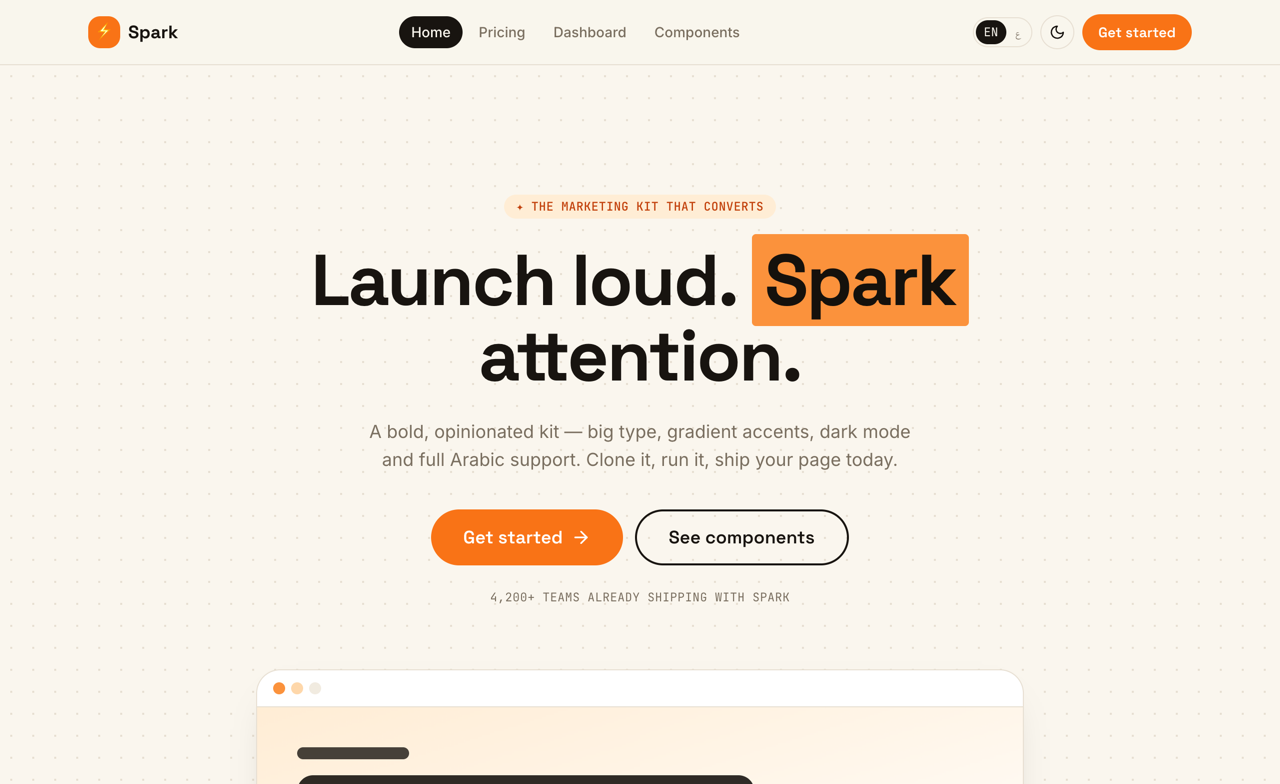
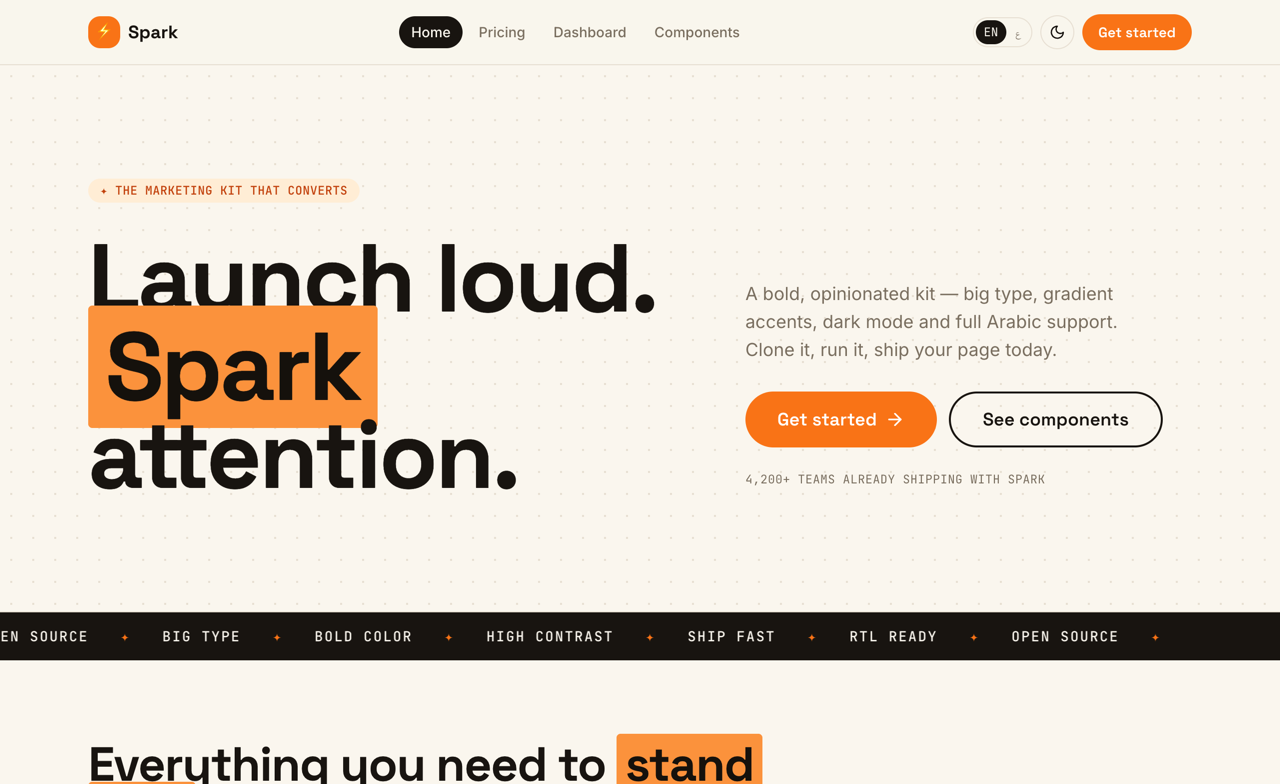
feat(spark): editorial landing; recaptured

diff --git a/apps/web/public/demos/spark/components/index.html b/apps/web/public/demos/spark/components/index.html
@@ -10,8 +10,8 @@
       href="https://fonts.googleapis.com/css2?family=Space+Grotesk:wght@500;600;700&family=Inter:wght@400;500;600&family=JetBrains+Mono:wght@400;500&family=Cairo:wght@400;600;700;800&display=swap"
       rel="stylesheet"
     />
-    <script type="module" crossorigin src="/demos/spark/assets/index-3TlDoNMO.js"></script>
-    <link rel="stylesheet" crossorigin href="/demos/spark/assets/index-Bxac-suA.css">
+    <script type="module" crossorigin src="/demos/spark/assets/index-BwNC0npH.js"></script>
+    <link rel="stylesheet" crossorigin href="/demos/spark/assets/index-BahLwX7e.css">
   </head>
   <body>
     <div id="root"></div>

diff --git a/apps/web/public/demos/spark/dashboard/index.html b/apps/web/public/demos/spark/dashboard/index.html
@@ -10,8 +10,8 @@
       href="https://fonts.googleapis.com/css2?family=Space+Grotesk:wght@500;600;700&family=Inter:wght@400;500;600&family=JetBrains+Mono:wght@400;500&family=Cairo:wght@400;600;700;800&display=swap"
       rel="stylesheet"
     />
-    <script type="module" crossorigin src="/demos/spark/assets/index-3TlDoNMO.js"></script>
-    <link rel="stylesheet" crossorigin href="/demos/spark/assets/index-Bxac-suA.css">
+    <script type="module" crossorigin src="/demos/spark/assets/index-BwNC0npH.js"></script>
+    <link rel="stylesheet" crossorigin href="/demos/spark/assets/index-BahLwX7e.css">
   </head>
   <body>
     <div id="root"></div>

diff --git a/apps/web/public/demos/spark/index.html b/apps/web/public/demos/spark/index.html
@@ -10,8 +10,8 @@
       href="https://fonts.googleapis.com/css2?family=Space+Grotesk:wght@500;600;700&family=Inter:wght@400;500;600&family=JetBrains+Mono:wght@400;500&family=Cairo:wght@400;600;700;800&display=swap"
       rel="stylesheet"
     />
-    <script type="module" crossorigin src="/demos/spark/assets/index-3TlDoNMO.js"></script>
-    <link rel="stylesheet" crossorigin href="/demos/spark/assets/index-Bxac-suA.css">
+    <script type="module" crossorigin src="/demos/spark/assets/index-BwNC0npH.js"></script>
+    <link rel="stylesheet" crossorigin href="/demos/spark/assets/index-BahLwX7e.css">
   </head>
   <body>
     <div id="root"></div>

diff --git a/apps/web/public/demos/spark/pricing/index.html b/apps/web/public/demos/spark/pricing/index.html
@@ -10,8 +10,8 @@
       href="https://fonts.googleapis.com/css2?family=Space+Grotesk:wght@500;600;700&family=Inter:wght@400;500;600&family=JetBrains+Mono:wght@400;500&family=Cairo:wght@400;600;700;800&display=swap"
       rel="stylesheet"
     />
-    <script type="module" crossorigin src="/demos/spark/assets/index-3TlDoNMO.js"></script>
-    <link rel="stylesheet" crossorigin href="/demos/spark/assets/index-Bxac-suA.css">
+    <script type="module" crossorigin src="/demos/spark/assets/index-BwNC0npH.js"></script>
+    <link rel="stylesheet" crossorigin href="/demos/spark/assets/index-BahLwX7e.css">
   </head>
   <body>
     <div id="root"></div>

diff --git a/apps/web/public/demos/spark/assets/index-BahLwX7e.css b/apps/web/public/demos/spark/assets/index-BahLwX7e.css
@@ -1,0 +1,1 @@
+@layer properties{@supports (((-webkit-hyphens:none)) and (not (margin-trim:inline))) or ((-moz-orient:inline) and (not (color:rgb(from red r g b)))){*,:before,:after,::backdrop{--tw-translate-x:0;--tw-translate-y:0;--tw-translate-z:0;--tw-space-y-reverse:0;--tw-space-x-reverse:0;--tw-divide-y-reverse:0;--tw-border-style:solid;--tw-leading:initial;--tw-font-weight:initial;--tw-tracking:initial;--tw-shadow:0 0 #0000;--tw-shadow-color:initial;--tw-shadow-alpha:100%;--tw-inset-shadow:0 0 #0000;--tw-inset-shadow-color:initial;--tw-inset-shadow-alpha:100%;--tw-ring-color:initial;--tw-ring-shadow:0 0 #0000;--tw-inset-ring-color:initial;--tw-inset-ring-shadow:0 0 #0000;--tw-ring-inset:initial;--tw-ring-offset-width:0px;--tw-ring-offset-color:#fff;--tw-ring-offset-shadow:0 0 #0000;--tw-outline-style:solid;--tw-backdrop-blur:initial;--tw-backdrop-brightness:initial;--tw-backdrop-contrast:initial;--tw-backdrop-grayscale:initial;--tw-backdrop-hue-rotate:initial;--tw-backdrop-invert:initial;--tw-backdrop-opacity:initial;--tw-backdrop-saturate:initial;--tw-backdrop-sepia:initial;--tw-content:"";--tw-blur:initial;--tw-brightness:initial;--tw-contrast:initial;--tw-grayscale:initial;--tw-hue-rotate:initial;--tw-invert:initial;--tw-opacity:initial;--tw-saturate:initial;--tw-sepia:initial;--tw-drop-shadow:initial;--tw-drop-shadow-color:initial;--tw-drop-shadow-alpha:100%;--tw-drop-shadow-size:initial;--tw-scale-x:1;--tw-scale-y:1;--tw-scale-z:1}}}@layer theme{:root,:host{--font-sans:"Inter", "Cairo", system-ui, sans-serif;--font-mono:"JetBrains Mono", ui-monospace, SFMono-Regular, monospace;--color-amber-500:oklch(76.9% .188 70.08);--color-rose-500:oklch(64.5% .246 16.439);--spacing:.25rem;--container-sm:24rem;--container-md:28rem;--container-xl:36rem;--container-2xl:42rem;--container-3xl:48rem;--container-4xl:56rem;--container-6xl:72rem;--text-xs:.75rem;--text-xs--line-height:calc(1 / .75);--text-sm:.875rem;--text-sm--line-height:calc(1.25 / .875);--text-base:1rem;--text-base--line-height: 1.5 ;--text-lg:1.125rem;--text-lg--line-height:calc(1.75 / 1.125);--text-xl:1.25rem;--text-xl--line-height:calc(1.75 / 1.25);--text-2xl:1.5rem;--text-2xl--line-height:calc(2 / 1.5);--text-3xl:1.875rem;--text-3xl--line-height: 1.2 ;--text-4xl:2.25rem;--text-4xl--line-height:calc(2.5 / 2.25);--text-5xl:3rem;--text-5xl--line-height:1;--text-6xl:3.75rem;--text-6xl--line-height:1;--text-8xl:6rem;--text-8xl--line-height:1;--font-weight-normal:400;--font-weight-medium:500;--font-weight-semibold:600;--font-weight-bold:700;--tracking-tight:-.025em;--tracking-wide:.025em;--tracking-widest:.1em;--leading-tight:1.25;--leading-snug:1.375;--radius-sm:.25rem;--radius-md:.375rem;--radius-lg:1.5rem;--radius-xl:.75rem;--animate-spin:spin 1s linear infinite;--animate-pulse:pulse 2s cubic-bezier(.4, 0, .6, 1) infinite;--blur-sm:8px;--default-transition-duration:.15s;--default-transition-timing-function:cubic-bezier(.4, 0, .2, 1);--default-font-family:var(--font-sans);--default-mono-font-family:var(--font-mono);--radius:1rem;--font-display:"Space Grotesk", "Cairo", system-ui, sans-serif;--color-brand-100:#ffedd5;--color-brand-300:#fdba74;--color-brand-700:#c2410c;--color-background:#faf6ee;--color-foreground:#181410;--color-card:#fff;--color-muted:#f1ebe0;--color-muted-foreground:#7a6f60;--color-border:#e7dfd2;--color-primary:#f97316;--color-primary-foreground:#fff;--color-ink:#15110c;--color-ink-foreground:#faf6ee;--color-mark:#fb923c;--color-mark-foreground:#15110c;--color-success:#16a34a;--shadow-card:0 18px 40px -24px #18141059}}@layer base{*,:after,:before,::backdrop{box-sizing:border-box;border:0 solid;margin:0;padding:0}::file-selector-button{box-sizing:border-box;border:0 solid;margin:0;padding:0}html,:host{-webkit-text-size-adjust:100%;tab-size:4;line-height:1.5;font-family:var(--default-font-family,ui-sans-serif, system-ui, sans-serif, "Apple Color Emoji", "Segoe UI Emoji", "Segoe UI Symbol", "Noto Color Emoji");font-feature-settings:var(--default-font-feature-settings,normal);font-variation-settings:var(--default-font-variation-settings,normal);-webkit-tap-highlight-color:transparent}hr{height:0;color:inherit;border-top-width:1px}abbr:where([title]){-webkit-text-decoration:underline dotted;text-decoration:underline dotted}h1,h2,h3,h4,h5,h6{font-size:inherit;font-weight:inherit}a{color:inherit;-webkit-text-decoration:inherit;text-decoration:inherit}b,strong{font-weight:bolder}code,kbd,samp,pre{font-family:var(--default-mono-font-family,ui-monospace, SFMono-Regular, Menlo, Monaco, Consolas, "Liberation Mono", "Courier New", monospace);font-feature-settings:var(--default-mono-font-feature-settings,normal);font-variation-settings:var(--default-mono-font-variation-settings,normal);font-size:1em}small{font-size:80%}sub,sup{vertical-align:baseline;font-size:75%;line-height:0;position:relative}sub{bottom:-.25em}sup{top:-.5em}table{text-indent:0;border-color:inherit;border-collapse:collapse}:-moz-focusring{outline:auto}progress{vertical-align:baseline}summary{display:list-item}ol,ul,menu{list-style:none}img,svg,video,canvas,audio,iframe,embed,object{vertical-align:middle;display:block}img,video{max-width:100%;height:auto}button,input,select,optgroup,textarea{font:inherit;font-feature-settings:inherit;font-variation-settings:inherit;letter-spacing:inherit;color:inherit;opacity:1;background-color:#0000;border-radius:0}::file-selector-button{font:inherit;font-feature-settings:inherit;font-variation-settings:inherit;letter-spacing:inherit;color:inherit;opacity:1;background-color:#0000;border-radius:0}:where(select:is([multiple],[size])) optgroup{font-weight:bolder}:where(select:is([multiple],[size])) optgroup option{padding-inline-start:20px}::file-selector-button{margin-inline-end:4px}::placeholder{opacity:1}@supports (not ((-webkit-appearance:-apple-pay-button))) or (contain-intrinsic-size:1px){::placeholder{color:currentColor}@supports (color:color-mix(in lab,red,red)){::placeholder{color:color-mix(in oklab,currentcolor 50%,transparent)}}}textarea{resize:vertical}::-webkit-search-decoration{-webkit-appearance:none}::-webkit-date-and-time-value{min-height:1lh;text-align:inherit}::-webkit-datetime-edit{display:inline-flex}::-webkit-datetime-edit-fields-wrapper{padding:0}::-webkit-datetime-edit{padding-block:0}::-webkit-datetime-edit-year-field{padding-block:0}::-webkit-datetime-edit-month-field{padding-block:0}::-webkit-datetime-edit-day-field{padding-block:0}::-webkit-datetime-edit-hour-field{padding-block:0}::-webkit-datetime-edit-minute-field{padding-block:0}::-webkit-datetime-edit-second-field{padding-block:0}::-webkit-datetime-edit-millisecond-field{padding-block:0}::-webkit-datetime-edit-meridiem-field{padding-block:0}::-webkit-calendar-picker-indicator{line-height:1}:-moz-ui-invalid{box-shadow:none}button,input:where([type=button],[type=reset],[type=submit]){appearance:button}::file-selector-button{appearance:button}::-webkit-inner-spin-button{height:auto}::-webkit-outer-spin-button{height:auto}[hidden]:where(:not([hidden=until-found])){display:none!important}.dark{--color-background:#14100b;--color-foreground:#f7efe2;--color-card:#1d1812;--color-muted:#241d15;--color-muted-foreground:#b3a692;--color-border:#322a1f;--color-primary:#fb923c;--color-primary-foreground:#14100b;--color-ink:#0c0a07;--color-ink-foreground:#f7efe2;--color-mark:#f97316;--color-mark-foreground:#14100b}[dir=rtl]{--font-display:"Cairo", "Space Grotesk", sans-serif;--font-sans:"Cairo", "Inter", sans-serif}html{background-color:var(--color-background);color:var(--color-foreground);font-family:var(--font-sans);-webkit-font-smoothing:antialiased}}@layer components;@layer utilities{.pointer-events-none{pointer-events:none}.invisible{visibility:hidden}.sr-only{clip-path:inset(50%);white-space:nowrap;border-width:0;width:1px;height:1px;margin:-1px;padding:0;position:absolute;overflow:hidden}.absolute{position:absolute}.fixed{position:fixed}.relative{position:relative}.sticky{position:sticky}.inset-0{inset:0}.start-1\/2{inset-inline-start:50%}.end-0{inset-inline-end:calc(var(--spacing) * 0)}.top-0{top:0}.top-2\.5{top:calc(var(--spacing) * 2.5)}.right-2\.5{right:calc(var(--spacing) * 2.5)}.bottom-full{bottom:100%}.z-20{z-index:20}.z-40{z-index:40}.z-50{z-index:50}.col-start-1{grid-column-start:1}.row-start-1{grid-row-start:1}.mx-1{margin-inline:var(--spacing)}.mx-auto{margin-inline:auto}.mt-1{margin-top:var(--spacing)}.mt-1\.5{margin-top:calc(var(--spacing) * 1.5)}.mt-2{margin-top:calc(var(--spacing) * 2)}.mt-3{margin-top:calc(var(--spacing) * 3)}.mt-4{margin-top:calc(var(--spacing) * 4)}.mt-6{margin-top:calc(var(--spacing) * 6)}.mt-7{margin-top:calc(var(--spacing) * 7)}.mt-8{margin-top:calc(var(--spacing) * 8)}.mb-1{margin-bottom:var(--spacing)}.mb-2{margin-bottom:calc(var(--spacing) * 2)}.mb-4{margin-bottom:calc(var(--spacing) * 4)}.mb-8{margin-bottom:calc(var(--spacing) * 8)}.mb-10{margin-bottom:calc(var(--spacing) * 10)}.mb-12{margin-bottom:calc(var(--spacing) * 12)}.block{display:block}.flex{display:flex}.grid{display:grid}.hidden{display:none}.inline-block{display:inline-block}.inline-flex{display:inline-flex}.inline-grid{display:inline-grid}.h-1\.5{height:calc(var(--spacing) * 1.5)}.h-2{height:calc(var(--spacing) * 2)}.h-3{height:calc(var(--spacing) * 3)}.h-4{height:calc(var(--spacing) * 4)}.h-5{height:calc(var(--spacing) * 5)}.h-6{height:calc(var(--spacing) * 6)}.h-7{height:calc(var(--spacing) * 7)}.h-8{height:calc(var(--spacing) * 8)}.h-9{height:calc(var(--spacing) * 9)}.h-10{height:calc(var(--spacing) * 10)}.h-11{height:calc(var(--spacing) * 11)}.h-12{height:calc(var(--spacing) * 12)}.h-14{height:calc(var(--spacing) * 14)}.h-16{height:calc(var(--spacing) * 16)}.h-40{height:calc(var(--spacing) * 40)}.h-full{height:100%}.h-px{height:1px}.min-h-24{min-height:calc(var(--spacing) * 24)}.min-h-screen{min-height:100vh}.w-1\.5{width:calc(var(--spacing) * 1.5)}.w-1\/2{width:50%}.w-2{width:calc(var(--spacing) * 2)}.w-3{width:calc(var(--spacing) * 3)}.w-3\/4{width:75%}.w-4{width:calc(var(--spacing) * 4)}.w-5{width:calc(var(--spacing) * 5)}.w-6{width:calc(var(--spacing) * 6)}.w-7{width:calc(var(--spacing) * 7)}.w-8{width:calc(var(--spacing) * 8)}.w-9{width:calc(var(--spacing) * 9)}.w-10{width:calc(var(--spacing) * 10)}.w-11{width:calc(var(--spacing) * 11)}.w-12{width:calc(var(--spacing) * 12)}.w-44{width:calc(var(--spacing) * 44)}.w-52{width:calc(var(--spacing) * 52)}.w-56{width:calc(var(--spacing) * 56)}.w-full{width:100%}.w-max{width:max-content}.w-px{width:1px}.max-w-2xl{max-width:var(--container-2xl)}.max-w-3xl{max-width:var(--container-3xl)}.max-w-4xl{max-width:var(--container-4xl)}.max-w-6xl{max-width:var(--container-6xl)}.max-w-md{max-width:var(--container-md)}.max-w-sm{max-width:var(--container-sm)}.max-w-xl{max-width:var(--container-xl)}.min-w-0{min-width:0}.min-w-9{min-width:calc(var(--spacing) * 9)}.flex-1{flex:1}.shrink-0{flex-shrink:0}.-translate-x-1\/2{--tw-translate-x: -50% ;translate:var(--tw-translate-x) var(--tw-translate-y)}.rotate-45{rotate:45deg}.animate-pulse{animation:var(--animate-pulse)}.animate-spin{animation:var(--animate-spin)}.cursor-pointer{cursor:pointer}.appearance-none{appearance:none}.grid-cols-2{grid-template-columns:repeat(2,minmax(0,1fr))}.flex-col{flex-direction:column}.flex-row{flex-direction:row}.flex-wrap{flex-wrap:wrap}.place-items-center{place-items:center}.items-baseline{align-items:baseline}.items-center{align-items:center}.items-start{align-items:flex-start}.justify-between{justify-content:space-between}.justify-center{justify-content:center}.gap-1{gap:var(--spacing)}.gap-1\.5{gap:calc(var(--spacing) * 1.5)}.gap-2{gap:calc(var(--spacing) * 2)}.gap-2\.5{gap:calc(var(--spacing) * 2.5)}.gap-3{gap:calc(var(--spacing) * 3)}.gap-4{gap:calc(var(--spacing) * 4)}.gap-5{gap:calc(var(--spacing) * 5)}.gap-6{gap:calc(var(--spacing) * 6)}.gap-7{gap:calc(var(--spacing) * 7)}.gap-8{gap:calc(var(--spacing) * 8)}:where(.space-y-1>:not(:last-child)){--tw-space-y-reverse:0;margin-block-start:calc(var(--spacing) * var(--tw-space-y-reverse));margin-block-end:calc(var(--spacing) * calc(1 - var(--tw-space-y-reverse)))}:where(.space-y-1\.5>:not(:last-child)){--tw-space-y-reverse:0;margin-block-start:calc(calc(var(--spacing) * 1.5) * var(--tw-space-y-reverse));margin-block-end:calc(calc(var(--spacing) * 1.5) * calc(1 - var(--tw-space-y-reverse)))}:where(.space-y-2>:not(:last-child)){--tw-space-y-reverse:0;margin-block-start:calc(calc(var(--spacing) * 2) * var(--tw-space-y-reverse));margin-block-end:calc(calc(var(--spacing) * 2) * calc(1 - var(--tw-space-y-reverse)))}:where(.space-y-3>:not(:last-child)){--tw-space-y-reverse:0;margin-block-start:calc(calc(var(--spacing) * 3) * var(--tw-space-y-reverse));margin-block-end:calc(calc(var(--spacing) * 3) * calc(1 - var(--tw-space-y-reverse)))}:where(.space-y-3\.5>:not(:last-child)){--tw-space-y-reverse:0;margin-block-start:calc(calc(var(--spacing) * 3.5) * var(--tw-space-y-reverse));margin-block-end:calc(calc(var(--spacing) * 3.5) * calc(1 - var(--tw-space-y-reverse)))}:where(.space-y-4>:not(:last-child)){--tw-space-y-reverse:0;margin-block-start:calc(calc(var(--spacing) * 4) * var(--tw-space-y-reverse));margin-block-end:calc(calc(var(--spacing) * 4) * calc(1 - var(--tw-space-y-reverse)))}:where(.space-y-6>:not(:last-child)){--tw-space-y-reverse:0;margin-block-start:calc(calc(var(--spacing) * 6) * var(--tw-space-y-reverse));margin-block-end:calc(calc(var(--spacing) * 6) * calc(1 - var(--tw-space-y-reverse)))}:where(.space-y-12>:not(:last-child)){--tw-space-y-reverse:0;margin-block-start:calc(calc(var(--spacing) * 12) * var(--tw-space-y-reverse));margin-block-end:calc(calc(var(--spacing) * 12) * calc(1 - var(--tw-space-y-reverse)))}:where(.-space-x-2>:not(:last-child)){--tw-space-x-reverse:0;margin-inline-start:calc(calc(var(--spacing) * -2) * var(--tw-space-x-reverse));margin-inline-end:calc(calc(var(--spacing) * -2) * calc(1 - var(--tw-space-x-reverse)))}:where(.divide-y>:not(:last-child)){--tw-divide-y-reverse:0;border-bottom-style:var(--tw-border-style);border-top-style:var(--tw-border-style);border-top-width:calc(1px * var(--tw-divide-y-reverse));border-bottom-width:calc(1px * calc(1 - var(--tw-divide-y-reverse)))}:where(.divide-border>:not(:last-child)){border-color:var(--color-border)}.self-stretch{align-self:stretch}.truncate{text-overflow:ellipsis;white-space:nowrap;overflow:hidden}.overflow-hidden{overflow:hidden}.rounded-\[var\(--radius\)\]{border-radius:var(--radius)}.rounded-\[var\(--radius-lg\)\]{border-radius:var(--radius-lg)}.rounded-full{border-radius:3.40282e38px}.rounded-lg{border-radius:var(--radius-lg)}.rounded-md{border-radius:var(--radius-md)}.rounded-sm{border-radius:var(--radius-sm)}.rounded-xl{border-radius:var(--radius-xl)}.border{border-style:var(--tw-border-style);border-width:1px}.border-2{border-style:var(--tw-border-style);border-width:2px}.border-y{border-block-style:var(--tw-border-style);border-block-width:1px}.border-y-2{border-block-style:var(--tw-border-style);border-block-width:2px}.border-t{border-top-style:var(--tw-border-style);border-top-width:1px}.border-t-0{border-top-style:var(--tw-border-style);border-top-width:0}.border-b{border-bottom-style:var(--tw-border-style);border-bottom-width:1px}.border-b-2{border-bottom-style:var(--tw-border-style);border-bottom-width:2px}.border-dashed{--tw-border-style:dashed;border-style:dashed}.border-amber-500\/30{border-color:#f99c004d}@supports (color:color-mix(in lab,red,red)){.border-amber-500\/30{border-color:color-mix(in oklab,var(--color-amber-500) 30%,transparent)}}.border-border{border-color:var(--color-border)}.border-foreground{border-color:var(--color-foreground)}.border-primary{border-color:var(--color-primary)}.border-primary\/30{border-color:#f973164d}@supports (color:color-mix(in lab,red,red)){.border-primary\/30{border-color:color-mix(in oklab,var(--color-primary) 30%,transparent)}}.border-rose-500\/30{border-color:#ff23574d}@supports (color:color-mix(in lab,red,red)){.border-rose-500\/30{border-color:color-mix(in oklab,var(--color-rose-500) 30%,transparent)}}.border-success\/30{border-color:#16a34a4d}@supports (color:color-mix(in lab,red,red)){.border-success\/30{border-color:color-mix(in oklab,var(--color-success) 30%,transparent)}}.border-transparent{border-color:#0000}.border-t-primary{border-top-color:var(--color-primary)}.mark{background-color:var(--color-mark);color:var(--color-mark-foreground);-webkit-box-decoration-break:clone;box-decoration-break:clone;padding:0 .18em}.bg-amber-500{background-color:var(--color-amber-500)}.bg-amber-500\/5{background-color:#f99c000d}@supports (color:color-mix(in lab,red,red)){.bg-amber-500\/5{background-color:color-mix(in oklab,var(--color-amber-500) 5%,transparent)}}.bg-background{background-color:var(--color-background)}.bg-background\/85{background-color:#faf6eed9}@supports (color:color-mix(in lab,red,red)){.bg-background\/85{background-color:color-mix(in oklab,var(--color-background) 85%,transparent)}}.bg-border{background-color:var(--color-border)}.bg-brand-100{background-color:var(--color-brand-100)}.bg-brand-300{background-color:var(--color-brand-300)}.bg-card{background-color:var(--color-card)}.bg-foreground{background-color:var(--color-foreground)}.bg-ink{background-color:var(--color-ink)}.bg-ink\/50{background-color:#15110c80}@supports (color:color-mix(in lab,red,red)){.bg-ink\/50{background-color:color-mix(in oklab,var(--color-ink) 50%,transparent)}}.bg-mark{background-color:var(--color-mark)}.bg-muted{background-color:var(--color-muted)}.bg-muted-foreground\/40{background-color:#7a6f6066}@supports (color:color-mix(in lab,red,red)){.bg-muted-foreground\/40{background-color:color-mix(in oklab,var(--color-muted-foreground) 40%,transparent)}}.bg-primary{background-color:var(--color-primary)}.bg-primary\/5{background-color:#f973160d}@supports (color:color-mix(in lab,red,red)){.bg-primary\/5{background-color:color-mix(in oklab,var(--color-primary) 5%,transparent)}}.bg-primary\/10{background-color:#f973161a}@supports (color:color-mix(in lab,red,red)){.bg-primary\/10{background-color:color-mix(in oklab,var(--color-primary) 10%,transparent)}}.bg-rose-500{background-color:var(--color-rose-500)}.bg-rose-500\/5{background-color:#ff23570d}@supports (color:color-mix(in lab,red,red)){.bg-rose-500\/5{background-color:color-mix(in oklab,var(--color-rose-500) 5%,transparent)}}.bg-success{background-color:var(--color-success)}.bg-success\/5{background-color:#16a34a0d}@supports (color:color-mix(in lab,red,red)){.bg-success\/5{background-color:color-mix(in oklab,var(--color-success) 5%,transparent)}}.bg-success\/15{background-color:#16a34a26}@supports (color:color-mix(in lab,red,red)){.bg-success\/15{background-color:color-mix(in oklab,var(--color-success) 15%,transparent)}}.dotted{background-image:radial-gradient(var(--color-border) 1.2px,transparent 1.2px);background-size:22px 22px}.object-cover{object-fit:cover}.p-0\.5{padding:calc(var(--spacing) * .5)}.p-1\.5{padding:calc(var(--spacing) * 1.5)}.p-2{padding:calc(var(--spacing) * 2)}.p-3{padding:calc(var(--spacing) * 3)}.p-4{padding:calc(var(--spacing) * 4)}.p-6{padding:calc(var(--spacing) * 6)}.p-10{padding:calc(var(--spacing) * 10)}.p-12{padding:calc(var(--spacing) * 12)}.px-1\.5{padding-inline:calc(var(--spacing) * 1.5)}.px-2{padding-inline:calc(var(--spacing) * 2)}.px-2\.5{padding-inline:calc(var(--spacing) * 2.5)}.px-3{padding-inline:calc(var(--spacing) * 3)}.px-3\.5{padding-inline:calc(var(--spacing) * 3.5)}.px-4{padding-inline:calc(var(--spacing) * 4)}.px-5{padding-inline:calc(var(--spacing) * 5)}.px-6{padding-inline:calc(var(--spacing) * 6)}.px-8{padding-inline:calc(var(--spacing) * 8)}.py-0\.5{padding-block:calc(var(--spacing) * .5)}.py-1{padding-block:var(--spacing)}.py-1\.5{padding-block:calc(var(--spacing) * 1.5)}.py-2{padding-block:calc(var(--spacing) * 2)}.py-2\.5{padding-block:calc(var(--spacing) * 2.5)}.py-3{padding-block:calc(var(--spacing) * 3)}.py-4{padding-block:calc(var(--spacing) * 4)}.py-7{padding-block:calc(var(--spacing) * 7)}.py-8{padding-block:calc(var(--spacing) * 8)}.py-12{padding-block:calc(var(--spacing) * 12)}.py-14{padding-block:calc(var(--spacing) * 14)}.py-20{padding-block:calc(var(--spacing) * 20)}.py-24{padding-block:calc(var(--spacing) * 24)}.pt-0{padding-top:0}.pt-2{padding-top:calc(var(--spacing) * 2)}.pt-4{padding-top:calc(var(--spacing) * 4)}.pb-3{padding-bottom:calc(var(--spacing) * 3)}.pb-4{padding-bottom:calc(var(--spacing) * 4)}.pb-20{padding-bottom:calc(var(--spacing) * 20)}.pb-24{padding-bottom:calc(var(--spacing) * 24)}.text-center{text-align:center}.text-end{text-align:end}.text-start{text-align:start}.font-display{font-family:var(--font-display)}.font-mono{font-family:var(--font-mono)}.font-sans{font-family:var(--font-sans)}.text-2xl{font-size:var(--text-2xl);line-height:var(--tw-leading,var(--text-2xl--line-height))}.text-3xl{font-size:var(--text-3xl);line-height:var(--tw-leading,var(--text-3xl--line-height))}.text-4xl{font-size:var(--text-4xl);line-height:var(--tw-leading,var(--text-4xl--line-height))}.text-5xl{font-size:var(--text-5xl);line-height:var(--tw-leading,var(--text-5xl--line-height))}.text-6xl{font-size:var(--text-6xl);line-height:var(--tw-leading,var(--text-6xl--line-height))}.text-base{font-size:var(--text-base);line-height:var(--tw-leading,var(--text-base--line-height))}.text-lg{font-size:var(--text-lg);line-height:var(--tw-leading,var(--text-lg--line-height))}.text-sm{font-size:var(--text-sm);line-height:var(--tw-leading,var(--text-sm--line-height))}.text-xl{font-size:var(--text-xl);line-height:var(--tw-leading,var(--text-xl--line-height))}.text-xs{font-size:var(--text-xs);line-height:var(--tw-leading,var(--text-xs--line-height))}.text-\[10px\]{font-size:10px}.text-\[11px\]{font-size:11px}.leading-\[0\.92\]{--tw-leading:.92;line-height:.92}.leading-snug{--tw-leading:var(--leading-snug);line-height:var(--leading-snug)}.leading-tight{--tw-leading:var(--leading-tight);line-height:var(--leading-tight)}.font-bold{--tw-font-weight:var(--font-weight-bold);font-weight:var(--font-weight-bold)}.font-medium{--tw-font-weight:var(--font-weight-medium);font-weight:var(--font-weight-medium)}.font-normal{--tw-font-weight:var(--font-weight-normal);font-weight:var(--font-weight-normal)}.font-semibold{--tw-font-weight:var(--font-weight-semibold);font-weight:var(--font-weight-semibold)}.tracking-tight{--tw-tracking:var(--tracking-tight);letter-spacing:var(--tracking-tight)}.tracking-wide{--tw-tracking:var(--tracking-wide);letter-spacing:var(--tracking-wide)}.tracking-widest{--tw-tracking:var(--tracking-widest);letter-spacing:var(--tracking-widest)}.whitespace-nowrap{white-space:nowrap}.text-background{color:var(--color-background)}.text-border{color:var(--color-border)}.text-brand-700{color:var(--color-brand-700)}.text-foreground{color:var(--color-foreground)}.text-ink-foreground{color:var(--color-ink-foreground)}.text-ink-foreground\/60{color:#faf6ee99}@supports (color:color-mix(in lab,red,red)){.text-ink-foreground\/60{color:color-mix(in oklab,var(--color-ink-foreground) 60%,transparent)}}.text-muted-foreground{color:var(--color-muted-foreground)}.text-primary{color:var(--color-primary)}.text-primary-foreground{color:var(--color-primary-foreground)}.text-rose-500{color:var(--color-rose-500)}.text-success{color:var(--color-success)}.uppercase{text-transform:uppercase}.accent-primary{accent-color:var(--color-primary)}.opacity-0{opacity:0}.shadow-\[var\(--shadow-card\)\]{--tw-shadow:var(--shadow-card);box-shadow:var(--tw-inset-shadow),var(--tw-inset-ring-shadow),var(--tw-ring-offset-shadow),var(--tw-ring-shadow),var(--tw-shadow)}.ring-2{--tw-ring-shadow:var(--tw-ring-inset,) 0 0 0 calc(2px + var(--tw-ring-offset-width)) var(--tw-ring-color,currentcolor);box-shadow:var(--tw-inset-shadow),var(--tw-inset-ring-shadow),var(--tw-ring-offset-shadow),var(--tw-ring-shadow),var(--tw-shadow)}.ring-background{--tw-ring-color:var(--color-background)}.ring-primary{--tw-ring-color:var(--color-primary)}.outline{outline-style:var(--tw-outline-style);outline-width:1px}.backdrop-blur{--tw-backdrop-blur:blur(8px);-webkit-backdrop-filter:var(--tw-backdrop-blur,) var(--tw-backdrop-brightness,) var(--tw-backdrop-contrast,) var(--tw-backdrop-grayscale,) var(--tw-backdrop-hue-rotate,) var(--tw-backdrop-invert,) var(--tw-backdrop-opacity,) var(--tw-backdrop-saturate,) var(--tw-backdrop-sepia,);backdrop-filter:var(--tw-backdrop-blur,) var(--tw-backdrop-brightness,) var(--tw-backdrop-contrast,) var(--tw-backdrop-grayscale,) var(--tw-backdrop-hue-rotate,) var(--tw-backdrop-invert,) var(--tw-backdrop-opacity,) var(--tw-backdrop-saturate,) var(--tw-backdrop-sepia,)}.backdrop-blur-sm{--tw-backdrop-blur:blur(var(--blur-sm));-webkit-backdrop-filter:var(--tw-backdrop-blur,) var(--tw-backdrop-brightness,) var(--tw-backdrop-contrast,) var(--tw-backdrop-grayscale,) var(--tw-backdrop-hue-rotate,) var(--tw-backdrop-invert,) var(--tw-backdrop-opacity,) var(--tw-backdrop-saturate,) var(--tw-backdrop-sepia,);backdrop-filter:var(--tw-backdrop-blur,) var(--tw-backdrop-brightness,) var(--tw-backdrop-contrast,) var(--tw-backdrop-grayscale,) var(--tw-backdrop-hue-rotate,) var(--tw-backdrop-invert,) var(--tw-backdrop-opacity,) var(--tw-backdrop-saturate,) var(--tw-backdrop-sepia,)}.transition-all{transition-property:all;transition-timing-function:var(--tw-ease,var(--default-transition-timing-function));transition-duration:var(--tw-duration,var(--default-transition-duration))}.transition-colors{transition-property:color,background-color,border-color,outline-color,text-decoration-color,fill,stroke,--tw-gradient-from,--tw-gradient-via,--tw-gradient-to;transition-timing-function:var(--tw-ease,var(--default-transition-timing-function));transition-duration:var(--tw-duration,var(--default-transition-duration))}.transition-opacity{transition-property:opacity;transition-timing-function:var(--tw-ease,var(--default-transition-timing-function));transition-duration:var(--tw-duration,var(--default-transition-duration))}.transition-transform{transition-property:transform,translate,scale,rotate;transition-timing-function:var(--tw-ease,var(--default-transition-timing-function));transition-duration:var(--tw-duration,var(--default-transition-duration))}.outline-none{--tw-outline-style:none;outline-style:none}.group-focus-within\:opacity-100:is(:where(.group):focus-within *){opacity:1}@media(hover:hover){.group-hover\:opacity-100:is(:where(.group):hover *){opacity:1}}.peer-checked\:visible:is(:where(.peer):checked~*){visibility:visible}.peer-checked\:bg-primary:is(:where(.peer):checked~*){background-color:var(--color-primary)}.peer-focus-visible\:ring-2:is(:where(.peer):focus-visible~*){--tw-ring-shadow:var(--tw-ring-inset,) 0 0 0 calc(2px + var(--tw-ring-offset-width)) var(--tw-ring-color,currentcolor);box-shadow:var(--tw-inset-shadow),var(--tw-inset-ring-shadow),var(--tw-ring-offset-shadow),var(--tw-ring-shadow),var(--tw-shadow)}.peer-focus-visible\:ring-primary\/40:is(:where(.peer):focus-visible~*){--tw-ring-color:#f9731666}@supports (color:color-mix(in lab,red,red)){.peer-focus-visible\:ring-primary\/40:is(:where(.peer):focus-visible~*){--tw-ring-color:color-mix(in oklab, var(--color-primary) 40%, transparent)}}.placeholder\:text-muted-foreground::placeholder{color:var(--color-muted-foreground)}.after\:absolute:after{content:var(--tw-content);position:absolute}.after\:start-0\.5:after{content:var(--tw-content);inset-inline-start:calc(var(--spacing) * .5)}.after\:top-0\.5:after{content:var(--tw-content);top:calc(var(--spacing) * .5)}.after\:h-5:after{content:var(--tw-content);height:calc(var(--spacing) * 5)}.after\:w-5:after{content:var(--tw-content);width:calc(var(--spacing) * 5)}.after\:rounded-full:after{content:var(--tw-content);border-radius:3.40282e38px}.after\:bg-card:after{content:var(--tw-content);background-color:var(--color-card)}.after\:shadow:after{content:var(--tw-content);--tw-shadow:0 1px 3px 0 var(--tw-shadow-color,#0000001a), 0 1px 2px -1px var(--tw-shadow-color,#0000001a);box-shadow:var(--tw-inset-shadow),var(--tw-inset-ring-shadow),var(--tw-ring-offset-shadow),var(--tw-ring-shadow),var(--tw-shadow)}.after\:transition-all:after{content:var(--tw-content);transition-property:all;transition-timing-function:var(--tw-ease,var(--default-transition-timing-function));transition-duration:var(--tw-duration,var(--default-transition-duration))}.peer-checked\:after\:translate-x-5:is(:where(.peer):checked~*):after{content:var(--tw-content);--tw-translate-x:calc(var(--spacing) * 5);translate:var(--tw-translate-x) var(--tw-translate-y)}.checked\:border-\[6px\]:checked{border-style:var(--tw-border-style);border-width:6px}.checked\:border-primary:checked{border-color:var(--color-primary)}.checked\:bg-primary:checked{background-color:var(--color-primary)}@media(hover:hover){.hover\:bg-border:hover{background-color:var(--color-border)}.hover\:bg-foreground:hover{background-color:var(--color-foreground)}.hover\:bg-muted:hover{background-color:var(--color-muted)}.hover\:text-background:hover{color:var(--color-background)}.hover\:text-foreground:hover{color:var(--color-foreground)}.hover\:brightness-105:hover{--tw-brightness:brightness(105%);filter:var(--tw-blur,) var(--tw-brightness,) var(--tw-contrast,) var(--tw-grayscale,) var(--tw-hue-rotate,) var(--tw-invert,) var(--tw-saturate,) var(--tw-sepia,) var(--tw-drop-shadow,)}.hover\:brightness-125:hover{--tw-brightness:brightness(125%);filter:var(--tw-blur,) var(--tw-brightness,) var(--tw-contrast,) var(--tw-grayscale,) var(--tw-hue-rotate,) var(--tw-invert,) var(--tw-saturate,) var(--tw-sepia,) var(--tw-drop-shadow,)}}.focus\:border-primary:focus{border-color:var(--color-primary)}.focus\:ring-2:focus{--tw-ring-shadow:var(--tw-ring-inset,) 0 0 0 calc(2px + var(--tw-ring-offset-width)) var(--tw-ring-color,currentcolor);box-shadow:var(--tw-inset-shadow),var(--tw-inset-ring-shadow),var(--tw-ring-offset-shadow),var(--tw-ring-shadow),var(--tw-shadow)}.focus\:ring-primary\/20:focus{--tw-ring-color:#f9731633}@supports (color:color-mix(in lab,red,red)){.focus\:ring-primary\/20:focus{--tw-ring-color:color-mix(in oklab, var(--color-primary) 20%, transparent)}}.focus-visible\:ring-2:focus-visible{--tw-ring-shadow:var(--tw-ring-inset,) 0 0 0 calc(2px + var(--tw-ring-offset-width)) var(--tw-ring-color,currentcolor);box-shadow:var(--tw-inset-shadow),var(--tw-inset-ring-shadow),var(--tw-ring-offset-shadow),var(--tw-ring-shadow),var(--tw-shadow)}.focus-visible\:ring-primary\/40:focus-visible{--tw-ring-color:#f9731666}@supports (color:color-mix(in lab,red,red)){.focus-visible\:ring-primary\/40:focus-visible{--tw-ring-color:color-mix(in oklab, var(--color-primary) 40%, transparent)}}.focus-visible\:ring-primary\/50:focus-visible{--tw-ring-color:#f9731680}@supports (color:color-mix(in lab,red,red)){.focus-visible\:ring-primary\/50:focus-visible{--tw-ring-color:color-mix(in oklab, var(--color-primary) 50%, transparent)}}.focus-visible\:outline-none:focus-visible{--tw-outline-style:none;outline-style:none}.active\:scale-95:active{--tw-scale-x:95%;--tw-scale-y:95%;--tw-scale-z:95%;scale:var(--tw-scale-x) var(--tw-scale-y)}.disabled\:opacity-50:disabled{opacity:.5}@media(min-width:40rem){.sm\:col-span-2{grid-column:span 2/span 2}.sm\:flex{display:flex}.sm\:inline-flex{display:inline-flex}.sm\:grid-cols-2{grid-template-columns:repeat(2,minmax(0,1fr))}.sm\:grid-cols-4{grid-template-columns:repeat(4,minmax(0,1fr))}.sm\:grid-cols-\[auto_1fr_1\.5fr\]{grid-template-columns:auto 1fr 1.5fr}.sm\:flex-row{flex-direction:row}.sm\:gap-8{gap:calc(var(--spacing) * 8)}.sm\:p-20{padding:calc(var(--spacing) * 20)}.sm\:py-28{padding-block:calc(var(--spacing) * 28)}.sm\:text-3xl{font-size:var(--text-3xl);line-height:var(--tw-leading,var(--text-3xl--line-height))}.sm\:text-5xl{font-size:var(--text-5xl);line-height:var(--tw-leading,var(--text-5xl--line-height))}.sm\:text-6xl{font-size:var(--text-6xl);line-height:var(--tw-leading,var(--text-6xl--line-height))}.sm\:text-8xl{font-size:var(--text-8xl);line-height:var(--tw-leading,var(--text-8xl--line-height))}}@media(min-width:48rem){.md\:block{display:block}.md\:flex{display:flex}}@media(min-width:64rem){.lg\:col-span-2{grid-column:span 2/span 2}.lg\:block{display:block}.lg\:-translate-y-3{--tw-translate-y:calc(var(--spacing) * -3);translate:var(--tw-translate-x) var(--tw-translate-y)}.lg\:grid-cols-2{grid-template-columns:repeat(2,minmax(0,1fr))}.lg\:grid-cols-3{grid-template-columns:repeat(3,minmax(0,1fr))}.lg\:grid-cols-4{grid-template-columns:repeat(4,minmax(0,1fr))}.lg\:grid-cols-7{grid-template-columns:repeat(7,minmax(0,1fr))}.lg\:grid-cols-\[1\.4fr_1fr\]{grid-template-columns:1.4fr 1fr}.lg\:grid-cols-\[1fr_auto_1fr\]{grid-template-columns:1fr auto 1fr}.lg\:items-end{align-items:flex-end}.lg\:pb-3{padding-bottom:calc(var(--spacing) * 3)}}.rtl\:translate-x-1\/2:where(:dir(rtl),[dir=rtl],[dir=rtl] *){--tw-translate-x: 50% ;translate:var(--tw-translate-x) var(--tw-translate-y)}.rtl\:rotate-180:where(:dir(rtl),[dir=rtl],[dir=rtl] *){rotate:180deg}:where(.rtl\:space-x-reverse:where(:dir(rtl),[dir=rtl],[dir=rtl] *)>:not(:last-child)){--tw-space-x-reverse:1}.rtl\:peer-checked\:after\:-translate-x-5:where(:dir(rtl),[dir=rtl],[dir=rtl] *):is(:where(.peer):checked~*):after{content:var(--tw-content);--tw-translate-x:calc(var(--spacing) * -5);translate:var(--tw-translate-x) var(--tw-translate-y)}}body{margin:0}@keyframes spark-marquee{0%{transform:translate(0)}to{transform:translate(-50%)}}[dir=rtl] .spark-marquee-track{animation-direction:reverse}.spark-marquee-track{animation:28s linear infinite spark-marquee}@property --tw-translate-x{syntax:"*";inherits:false;initial-value:0}@property --tw-translate-y{syntax:"*";inherits:false;initial-value:0}@property --tw-translate-z{syntax:"*";inherits:false;initial-value:0}@property --tw-space-y-reverse{syntax:"*";inherits:false;initial-value:0}@property --tw-space-x-reverse{syntax:"*";inherits:false;initial-value:0}@property --tw-divide-y-reverse{syntax:"*";inherits:false;initial-value:0}@property --tw-border-style{syntax:"*";inherits:false;initial-value:solid}@property --tw-leading{syntax:"*";inherits:false}@property --tw-font-weight{syntax:"*";inherits:false}@property --tw-tracking{syntax:"*";inherits:false}@property --tw-shadow{syntax:"*";inherits:false;initial-value:0 0 #0000}@property --tw-shadow-color{syntax:"*";inherits:false}@property --tw-shadow-alpha{syntax:"<percentage>";inherits:false;initial-value:100%}@property --tw-inset-shadow{syntax:"*";inherits:false;initial-value:0 0 #0000}@property --tw-inset-shadow-color{syntax:"*";inherits:false}@property --tw-inset-shadow-alpha{syntax:"<percentage>";inherits:false;initial-value:100%}@property --tw-ring-color{syntax:"*";inherits:false}@property --tw-ring-shadow{syntax:"*";inherits:false;initial-value:0 0 #0000}@property --tw-inset-ring-color{syntax:"*";inherits:false}@property --tw-inset-ring-shadow{syntax:"*";inherits:false;initial-value:0 0 #0000}@property --tw-ring-inset{syntax:"*";inherits:false}@property --tw-ring-offset-width{syntax:"<length>";inherits:false;initial-value:0}@property --tw-ring-offset-color{syntax:"*";inherits:false;initial-value:#fff}@property --tw-ring-offset-shadow{syntax:"*";inherits:false;initial-value:0 0 #0000}@property --tw-outline-style{syntax:"*";inherits:false;initial-value:solid}@property --tw-backdrop-blur{syntax:"*";inherits:false}@property --tw-backdrop-brightness{syntax:"*";inherits:false}@property --tw-backdrop-contrast{syntax:"*";inherits:false}@property --tw-backdrop-grayscale{syntax:"*";inherits:false}@property --tw-backdrop-hue-rotate{syntax:"*";inherits:false}@property --tw-backdrop-invert{syntax:"*";inherits:false}@property --tw-backdrop-opacity{syntax:"*";inherits:false}@property --tw-backdrop-saturate{syntax:"*";inherits:false}@property --tw-backdrop-sepia{syntax:"*";inherits:false}@property --tw-content{syntax:"*";inherits:false;initial-value:""}@property --tw-blur{syntax:"*";inherits:false}@property --tw-brightness{syntax:"*";inherits:false}@property --tw-contrast{syntax:"*";inherits:false}@property --tw-grayscale{syntax:"*";inherits:false}@property --tw-hue-rotate{syntax:"*";inherits:false}@property --tw-invert{syntax:"*";inherits:false}@property --tw-opacity{syntax:"*";inherits:false}@property --tw-saturate{syntax:"*";inherits:false}@property --tw-sepia{syntax:"*";inherits:false}@property --tw-drop-shadow{syntax:"*";inherits:false}@property --tw-drop-shadow-color{syntax:"*";inherits:false}@property --tw-drop-shadow-alpha{syntax:"<percentage>";inherits:false;initial-value:100%}@property --tw-drop-shadow-size{syntax:"*";inherits:false}@property --tw-scale-x{syntax:"*";inherits:false;initial-value:1}@property --tw-scale-y{syntax:"*";inherits:false;initial-value:1}@property --tw-scale-z{syntax:"*";inherits:false;initial-value:1}@keyframes spin{to{transform:rotate(360deg)}}@keyframes pulse{50%{opacity:.5}}